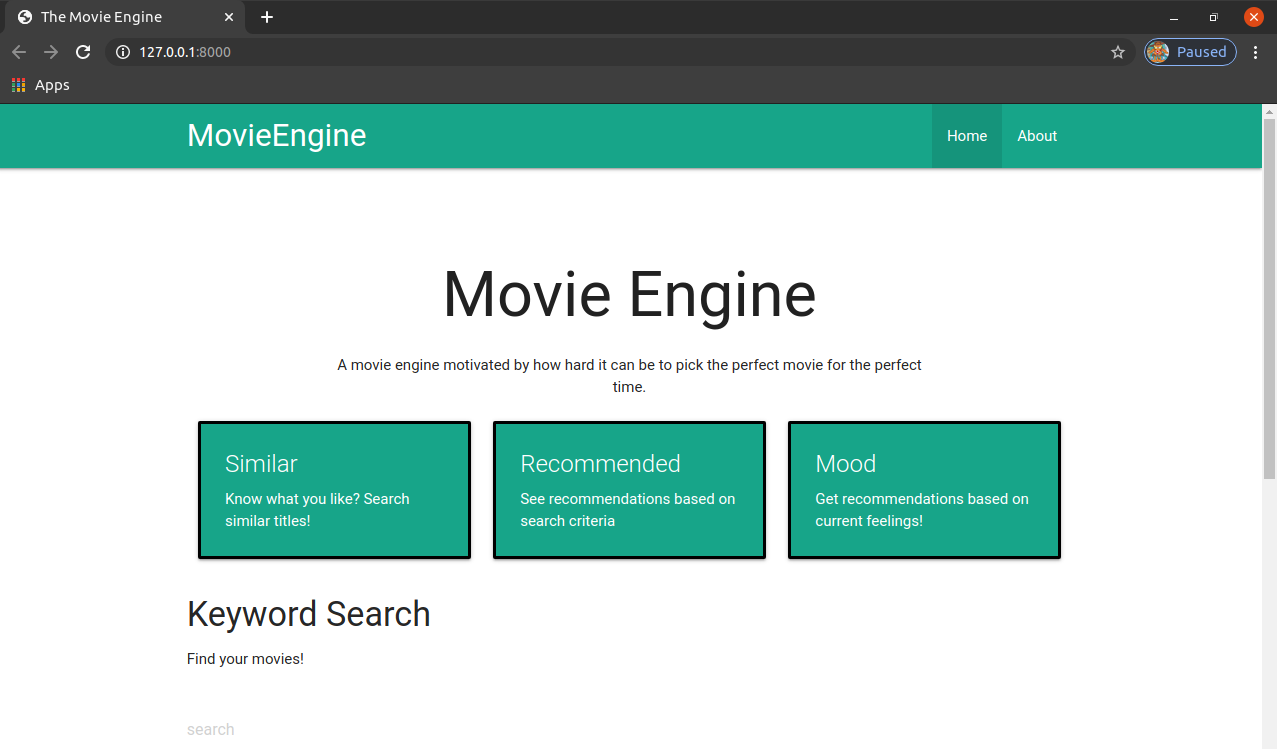
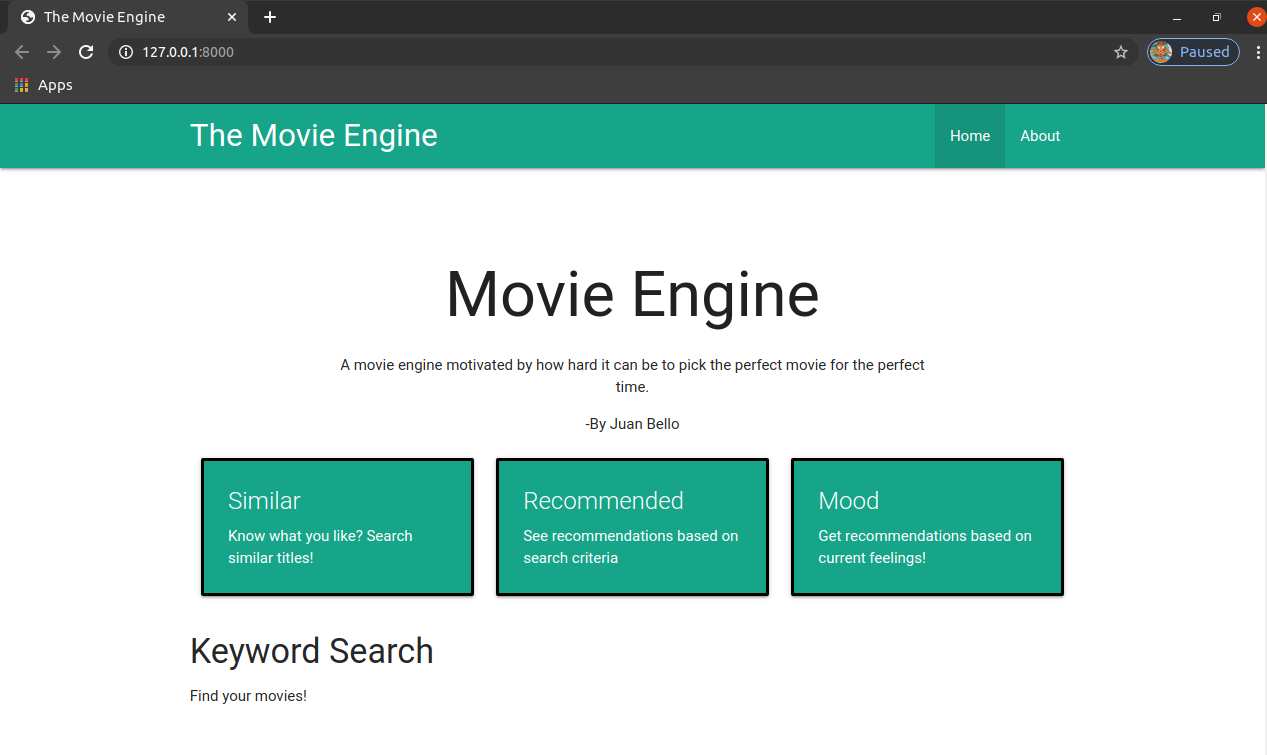
more assets

diff --git a/mysite/movies/templates/home.html b/mysite/movies/templates/home.html
@@ -43,7 +43,7 @@
   <!--navbar-->
   <nav style="background-color:#17a589">
     <div class="container nav-wrapper">
-      <a href="/" class="brand-logo">MovieEngine</a>
+      <a href="/" class="brand-logo">The Movie Engine</a>
       <ul id="nav-mobile" class="right">
         <li class="active"><a href="/">Home</a></li>
         <li><a href="/about">About</a></li>
@@ -60,6 +60,7 @@
       <h1 style="text-align:center">Movie Engine</h1>
       <p style="text-align:center">A movie engine motivated by how hard it
         can be to pick the perfect movie for the perfect time.</p>
+      <p style="text-align:center">-By Juan Bello</p>
     </div>
 
     <!--info row-->
